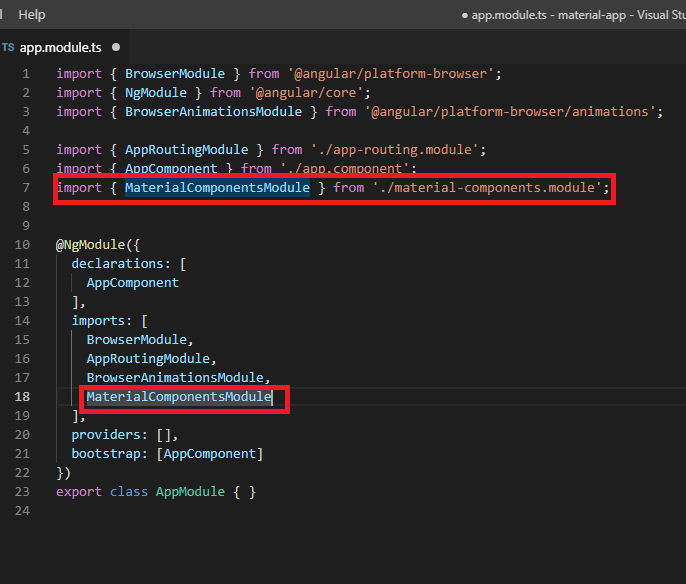
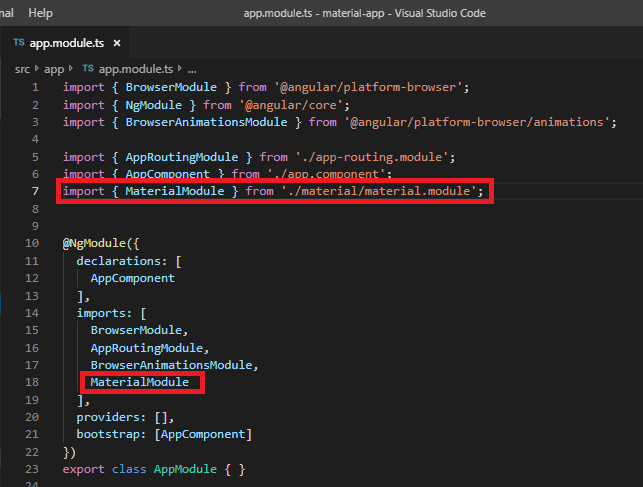
Post edit

Changed region(s): [[0.0, 0.0, 0.9642, 1.0], [0.3733, 0.0, 1.0, 0.0616]]

diff --git a/_posts/2019-6-04-AngularMaterial.md b/_posts/2019-6-04-AngularMaterial.md
@@ -59,13 +59,13 @@ export class AppModule { }</code></pre>
         mejor organizados.</p>
 
     <ol>
-        <li>Crea un nuevo módulo en la raíz de la aplicación. En la consola, ejecuta la siguiente línea:</li>
-        <pre><code>ng generate module material-components --flat=true</code></pre>
+        <li>En la consola, ejecuta la siguiente línea:</li>
+        <pre><code>ng generate module material-component</code></pre>
         <li>Importa el nuevo módulo en app.module.ts</li>
         <div style="text-align: center"><span class="image 4u 12u$(small)"><a
                     href="/assets/images/blog/AngularMaterial/02-CustomModule.png" target="_blank"><img
                         src="/assets/images/blog/AngularMaterial/02-CustomModule.png" alt="" /></a></span></div>
-        <li>Importa y exporta los componentes de Material en el módulo material-components.module.ts</li>
+        <li>Importa y exporta los componentes de Material en el módulo material.module.ts</li>
         <p>Para este ejemplo importaremos los siguientes componentes:</p>
         <div class="row">
             <div class="10u 12u$(small)">
